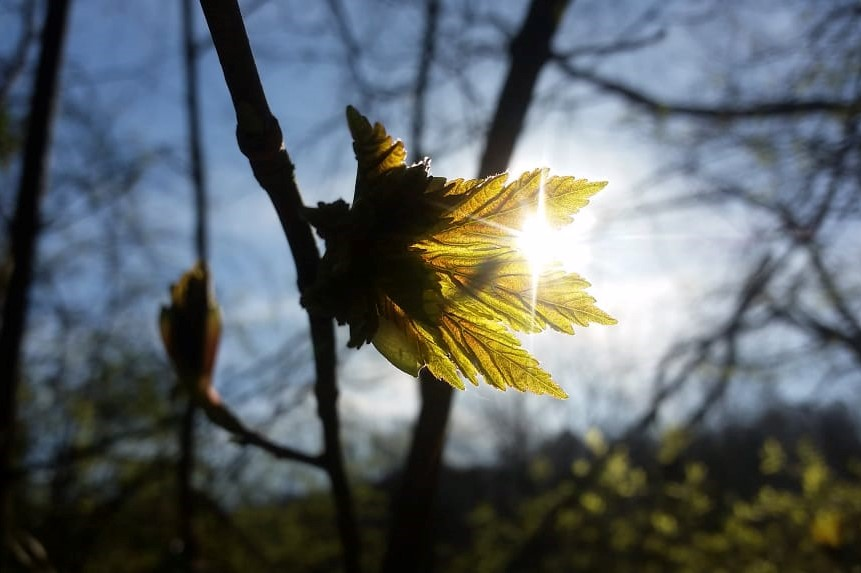
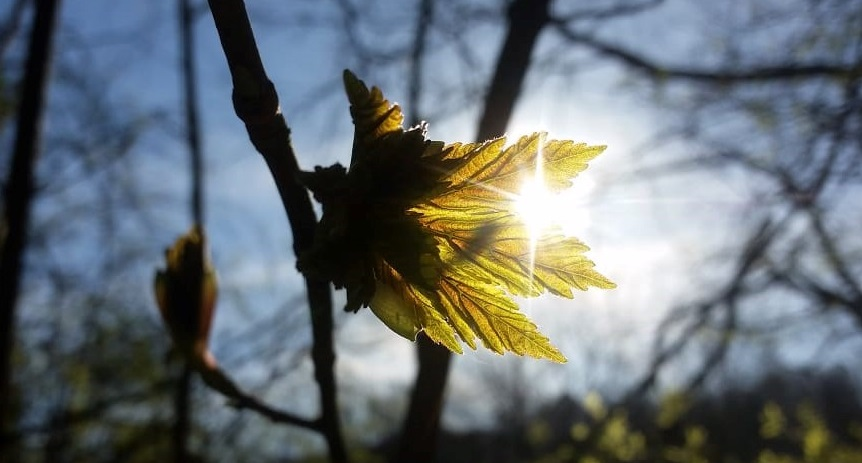
adjusted images and added connect buttons on all

diff --git a/index.html b/index.html
@@ -18,14 +18,13 @@
 <body>
 
     <header>
+        <!-- <h2>Nature Wild CIC</h2> -->
 
 
         <nav class="navbar">
 
-            <ul class="navright">
-                <li>
-                    <a href=index.html style="color: #81984C;">Home</a>
-                </li>
+            <ul>
+                <li><a href=index.html style="color: #81984C;">Home</a></li>
                 <li><a href=about.html>About</a></li>
                 <li><a href=projects.html>Projects</a></li>
                 <li><a href=contact.html>Contact</a></li>
@@ -40,16 +39,65 @@
 
         </nav>
 
+        <!-- <span class="mainimg">
+
+            <img src="resources/images/banner5.jpg" alt="NurtureWild" />
+
+
+
+        </span> -->
+    </header>
+
+    <h1></h1>
+    <section class="contact">
         <span class="mainimg">
 
-            <img src="resources/images/banner.jpg" alt="NurtureWild" style="height: initial; margin-top: 50px;" />
-            <!-- <div class="hometext">NurtureWild CIC</div> -->
+            <img src="resources/images/1 Ali.jpg" alt="NurtureWild" style="margin-bottom: 50px; width: 100%;" />
 
 
 
         </span>
+
+
+    </section>
+
+
+    <!-- <header>
+
+
+        <nav class="navbar">
+
+            <ul class="navright">
+                <li><a href=index.html>Home</a></li>
+                <li><a href=about.html>About</a></li>
+                <li><a href=projects.html style="color: #81984C;">Projects</a></li>
+                <li><a href=contact.html>Contact</a></li>
+            </ul>
+
+            <ul class="connectButtons">
+                <li><a href="https://www.facebook.com/nurturewildcic"><img src="resources/images/facebook.png"></a></li>
+                <li><a href="https://www.facebook.com/nurturewildcic"><img src="resources/images/instagram.png"></a>
+                </li>
+
+            </ul>
+
+        </nav>
+
     </header>
 
+    <h1>Projects</h1>
+    <section class="contact">
+        <span class="mainimg">
+
+            <img src="resources/images/square5.jpg" alt="NurtureWild" style="margin-bottom: 50px; width: 100%;" />
+
+
+
+        </span>
+
+
+    </section>
+ -->
 
     <div class="content">
 

diff --git a/contact.html b/contact.html
@@ -29,6 +29,13 @@
                 <li><a href=contact.html style="color: #81984C;">Contact</a></li>
             </ul>
 
+            <ul class="connectButtons">
+                <li><a href="https://www.facebook.com/nurturewildcic"><img src="resources/images/facebook.png"></a></li>
+                <li><a href="https://www.facebook.com/nurturewildcic"><img src="resources/images/instagram.png"></a>
+                </li>
+
+            </ul>
+
         </nav>
 
         <!-- <span class="mainimg">

diff --git a/projects.html b/projects.html
@@ -31,6 +31,13 @@
                 <li><a href=contact.html>Contact</a></li>
             </ul>
 
+            <ul class="connectButtons">
+                <li><a href="https://www.facebook.com/nurturewildcic"><img src="resources/images/facebook.png"></a></li>
+                <li><a href="https://www.facebook.com/nurturewildcic"><img src="resources/images/instagram.png"></a>
+                </li>
+
+            </ul>
+
         </nav>
 
         <!-- <span class="mainimg">

diff --git a/project1.html b/project1.html
@@ -31,6 +31,13 @@
                 <li><a href=contact.html>Contact</a></li>
             </ul>
 
+            <ul class="connectButtons">
+                <li><a href="https://www.facebook.com/nurturewildcic"><img src="resources/images/facebook.png"></a></li>
+                <li><a href="https://www.facebook.com/nurturewildcic"><img src="resources/images/instagram.png"></a>
+                </li>
+
+            </ul>
+
         </nav>
 
     </header>

diff --git a/resources/style.css b/resources/style.css
@@ -23,7 +23,9 @@ a {
     text-decoration: none;
 }
 
-
+a:hover {
+    font-weight: bold;
+}
 
 .navbar ul {
     list-style-type: none;
